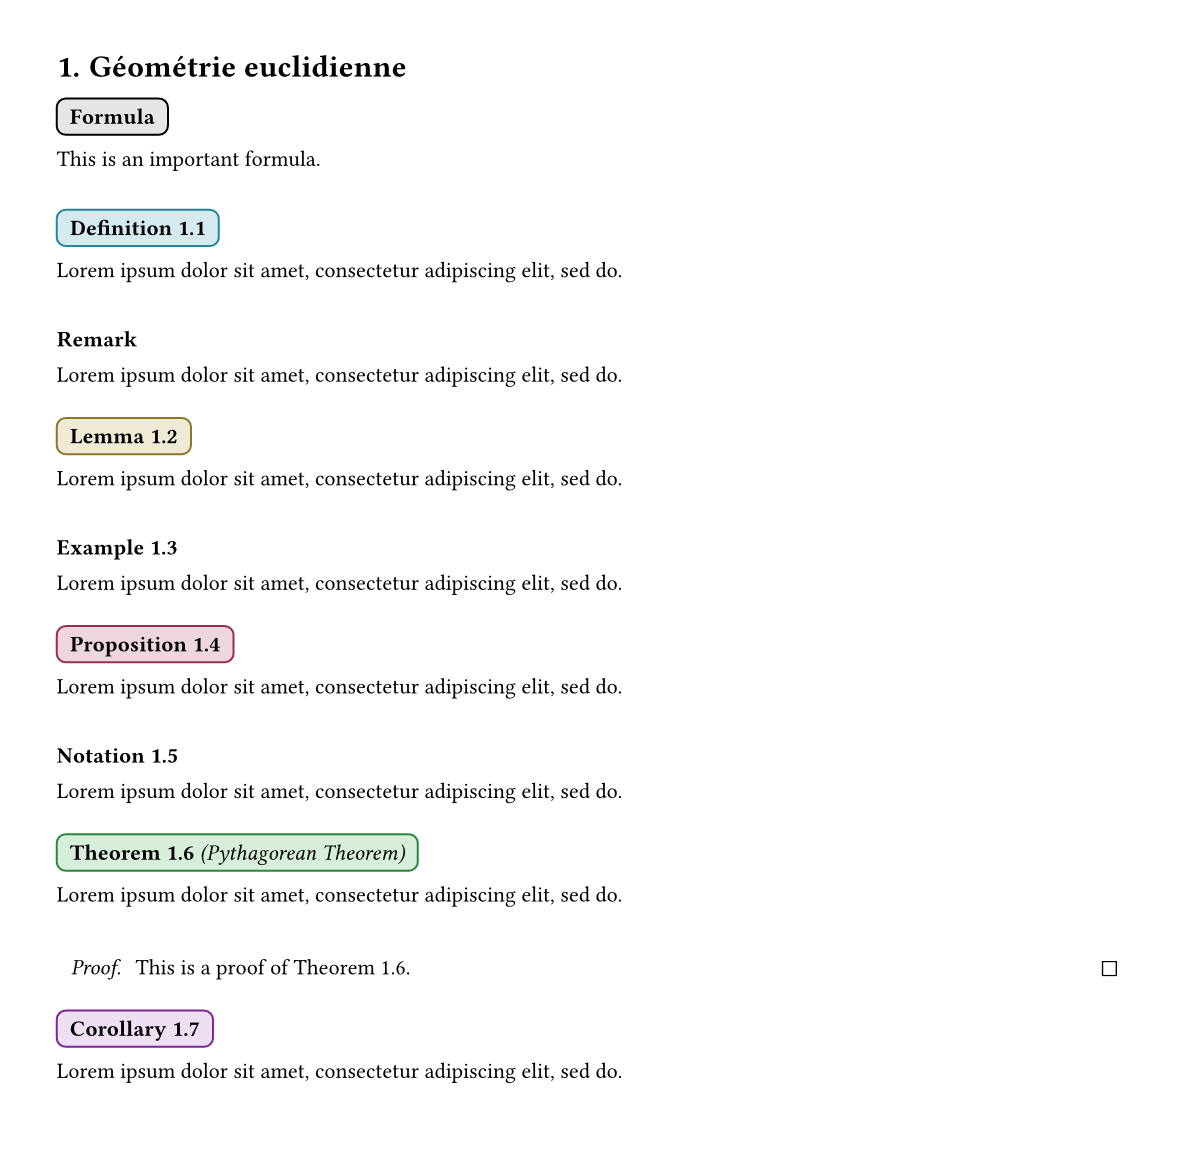
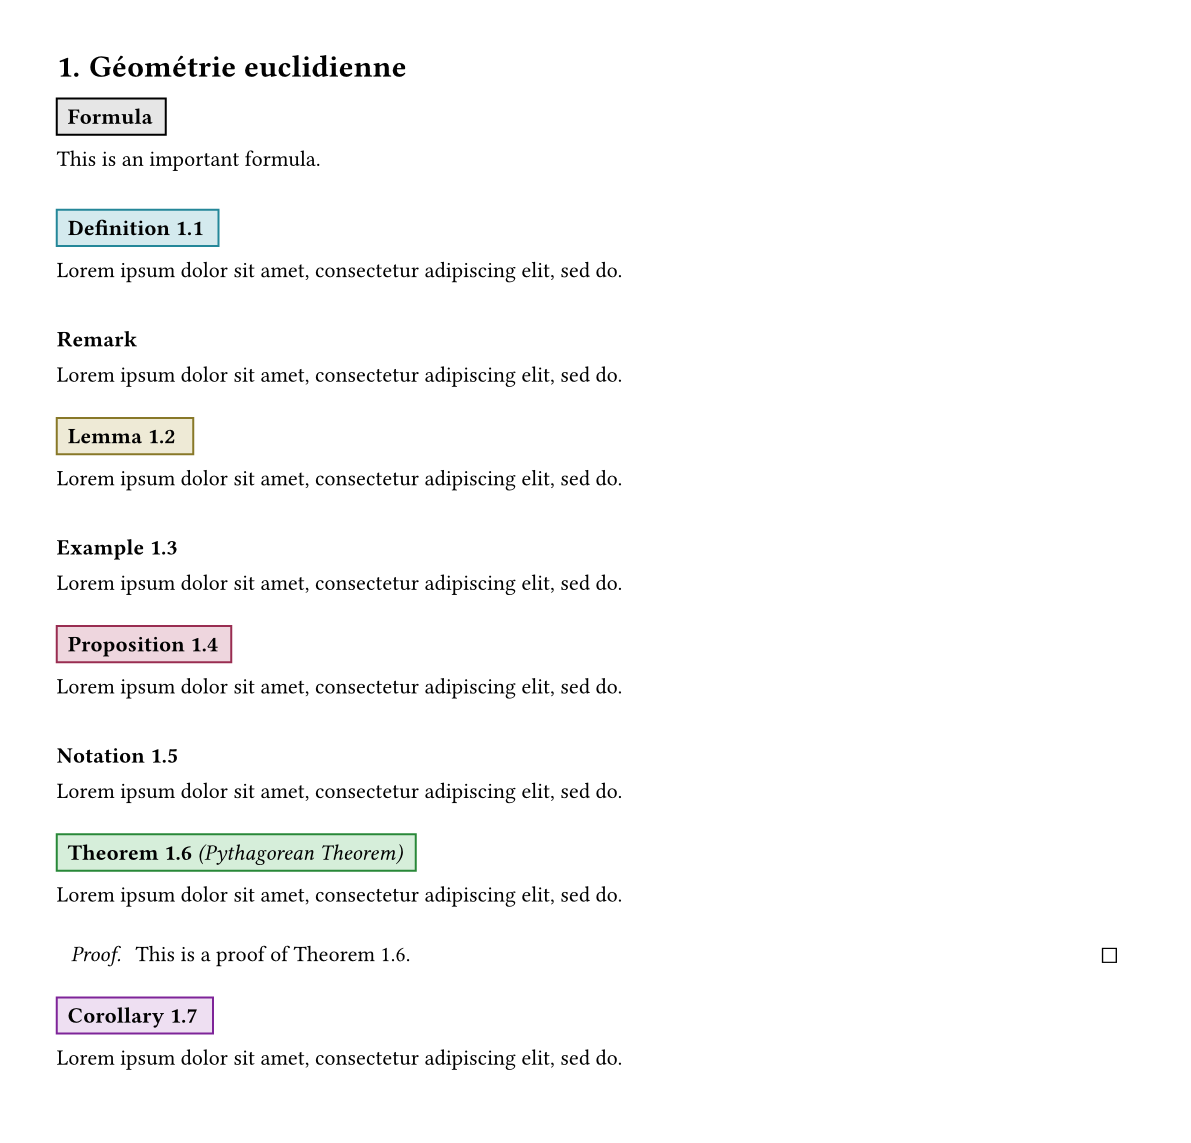
[add] shadow theme and various themes fixes

diff --git a/README.md b/README.md
@@ -1,6 +1,6 @@
 # Mathemateach
 
-Mathemateach is a typst package (not yet published on the [Typst  universe](https://typst.app/universe/)) which contains tools for writing lecture notes for teaching mathematics. For now, it contains highly customizable theorem boxes and comes along with 6 themes that can be used out of the box. It also contains exam template with 3 customizable question themes. But there will be additional features soon (for example some custom CetZ elements).
+Mathemateach is a typst package (not yet published on the [Typst  universe](https://typst.app/universe/)) which contains tools for writing lecture notes for teaching mathematics. For now, it contains highly customizable theorem boxes and comes along with 6 themes that can be used out of the box. It also contains exam template with 2 customizable question themes. But there will be additional features soon (for example some custom CetZ elements).
 
 > [!NOTE]
 > As this package was primary build for personal use, there is currently no documentation. The code is also a bit messy (and not at all commented !)
